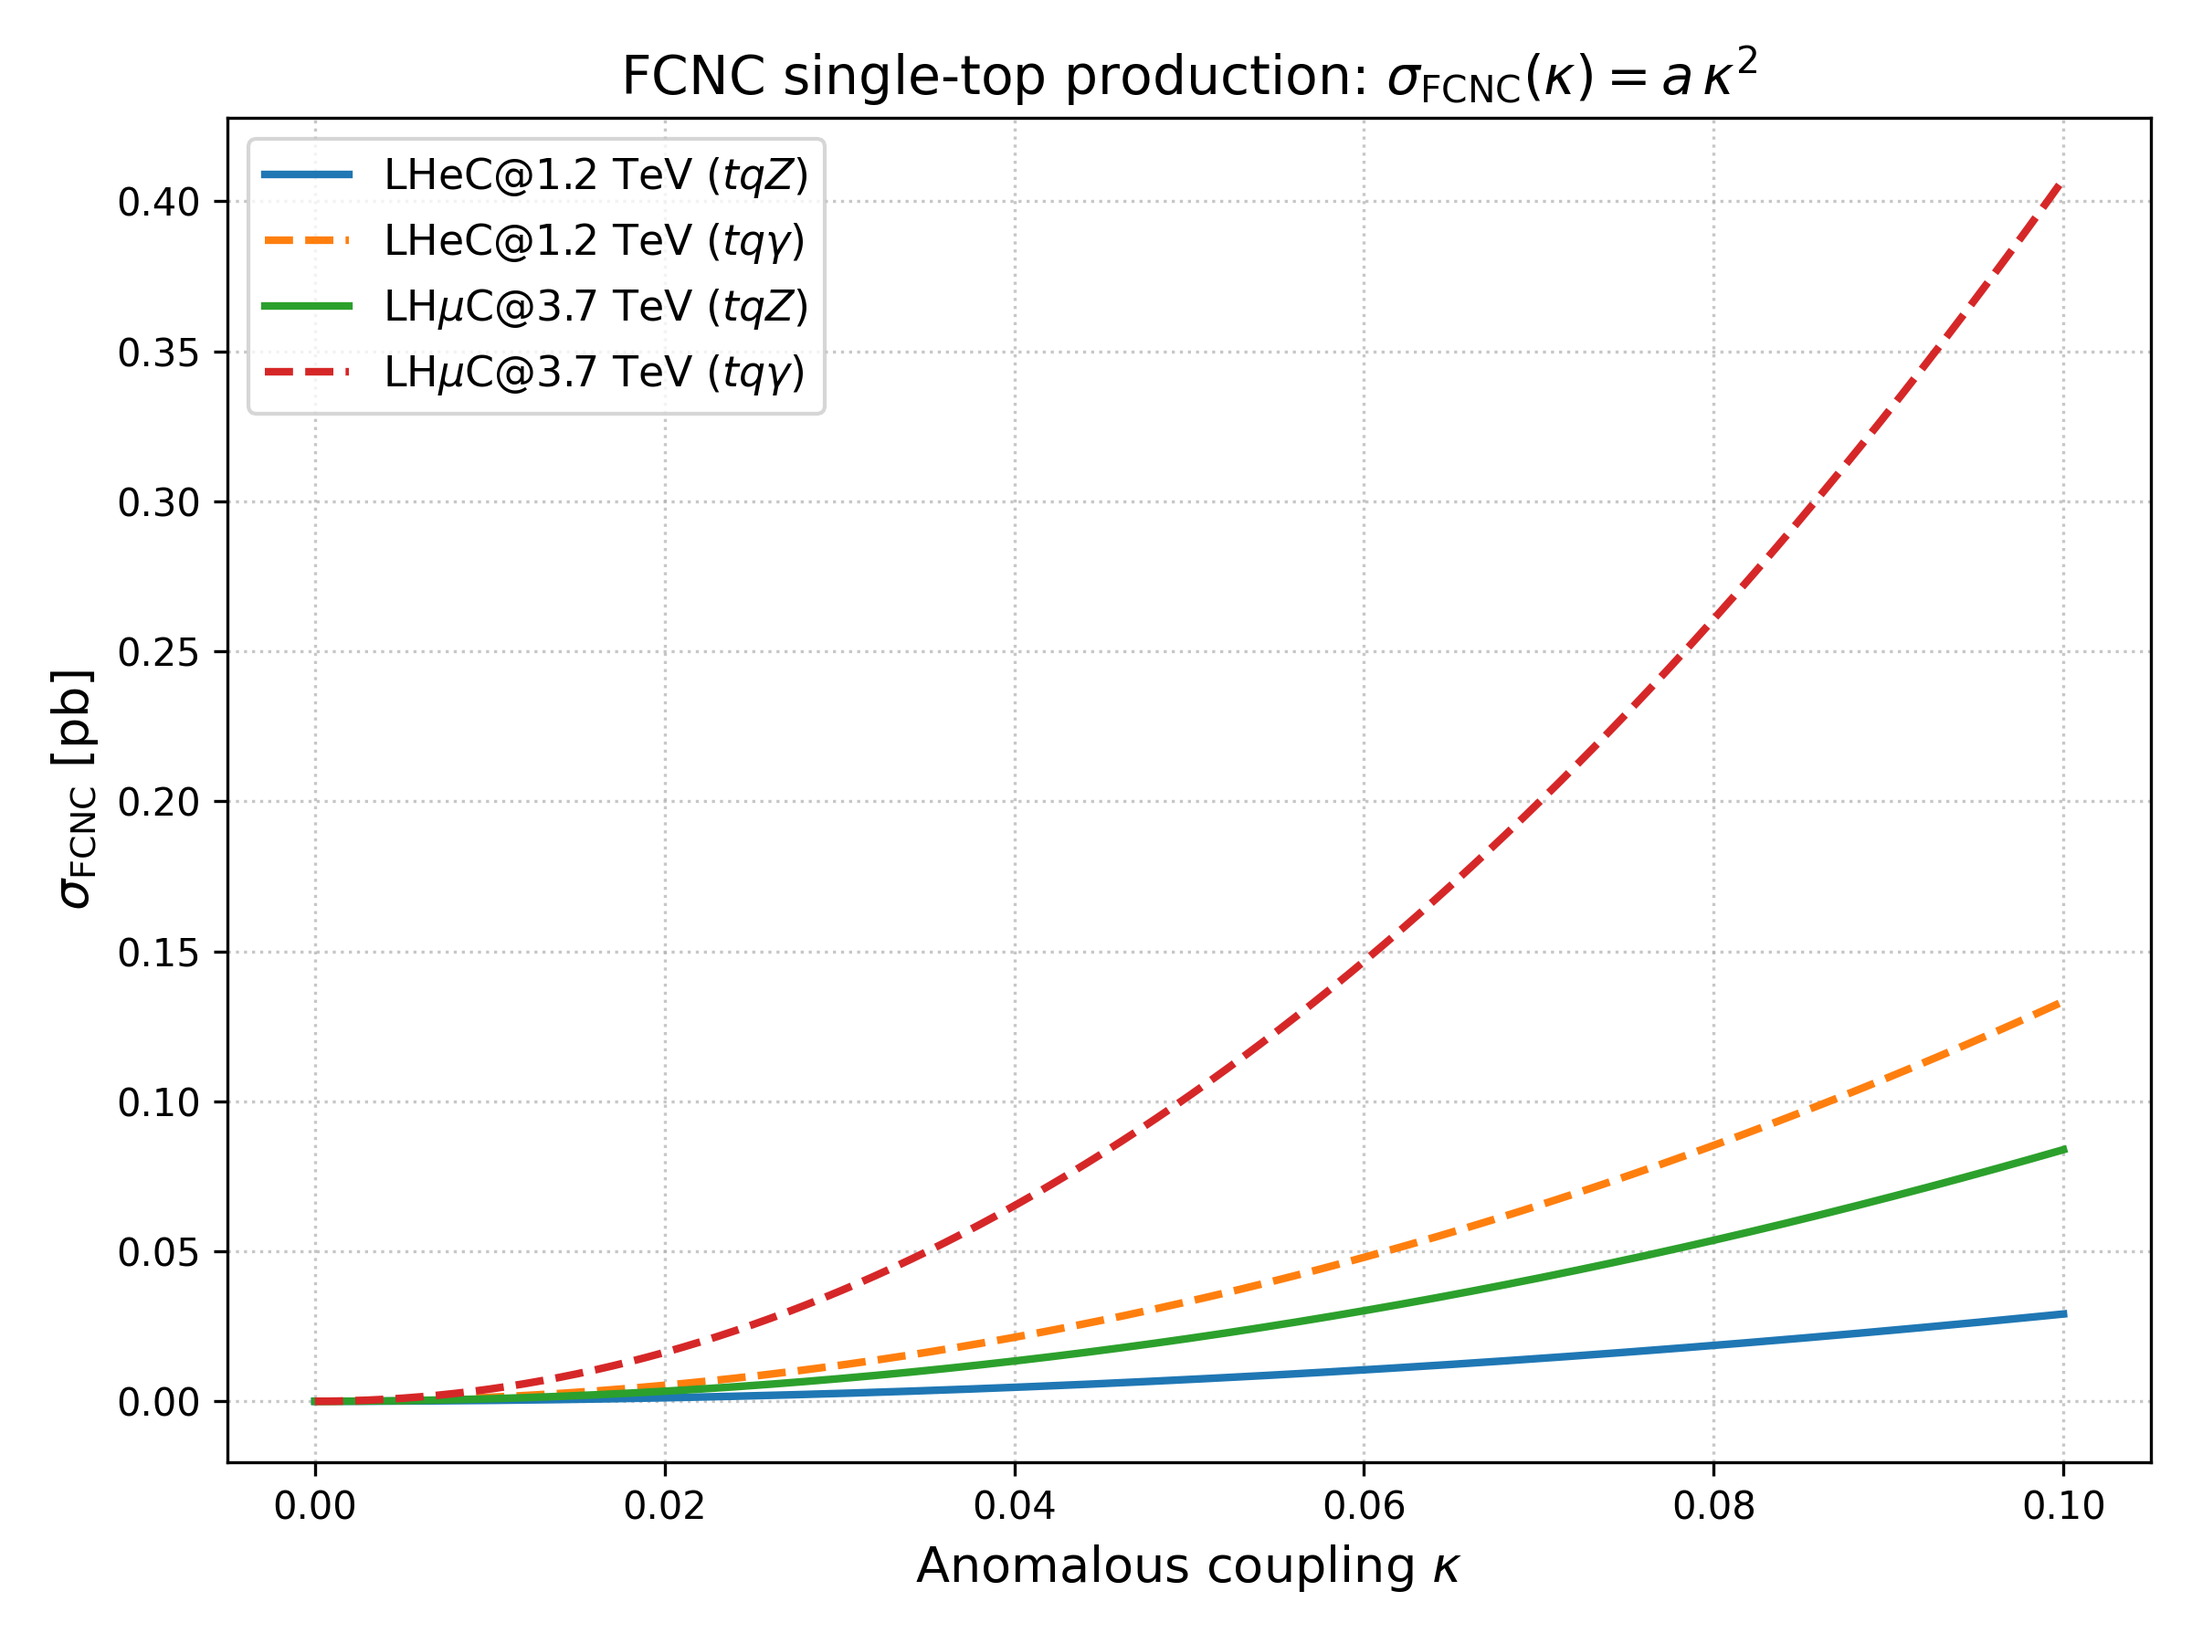
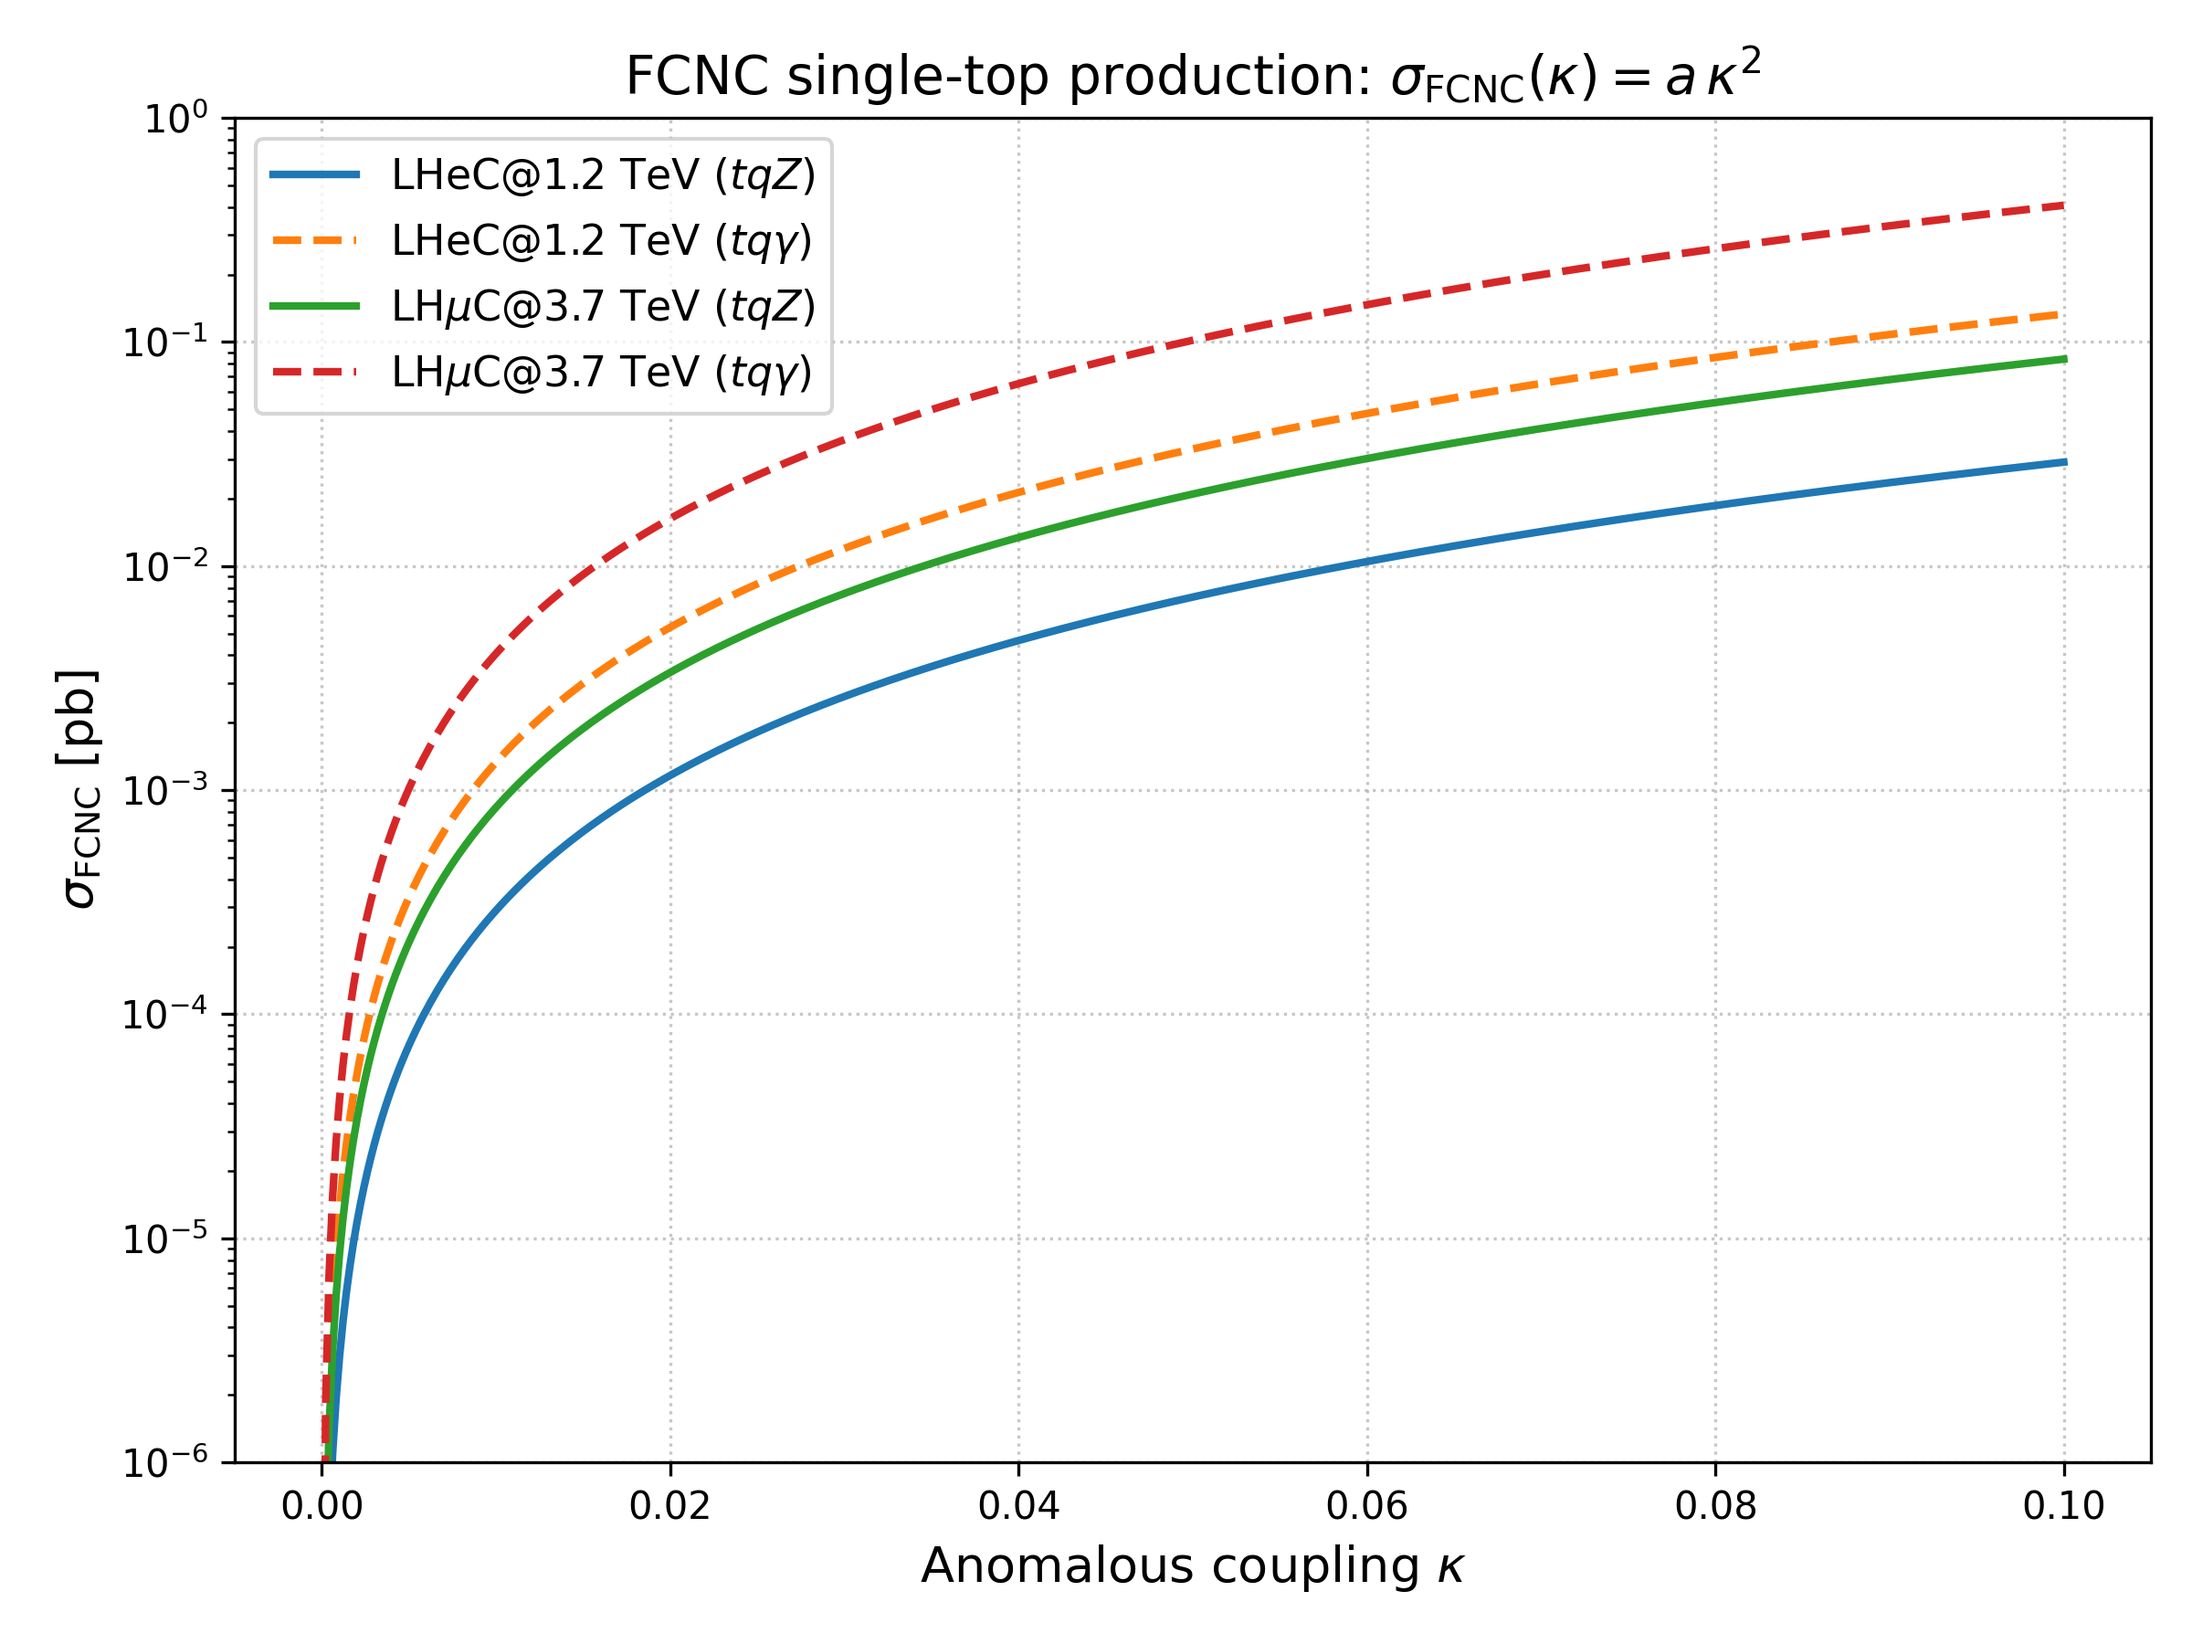
Cross sections: sigma = a * kappa^2
Cross sections: sigma = a * kappa^2

diff --git a/xs vs. couplings/LHeCvsLHmuC.py b/xs vs. couplings/LHeCvsLHmuC.py
@@ -13,9 +13,9 @@ a_LHmuC_tqZ = 8.387
 a_LHmuC_tqgamma = 40.74
 
 # --------------------------------------------------
-# Coupling range
+# Coupling range (linear scale: 10^-5 to 10^-1)
 # --------------------------------------------------
-kappa = np.linspace(0.0, 0.1, 500)
+kappa = np.linspace(1e-5, 1e-1, 500)
 
 # --------------------------------------------------
 # Cross sections: sigma = a * kappa^2
@@ -42,6 +42,9 @@ plt.plot(kappa, sigma_LHmuC_tqZ,
 
 plt.plot(kappa, sigma_LHmuC_tqgamma,
          lw=2, ls='--', label=r'LH$\mu$C@3.7 TeV ($tq\gamma$)')
+
+plt.yscale('log')
+plt.ylim(1e-6, 1e0)
 
 plt.xlabel(r'Anomalous coupling $\kappa$', fontsize=13)
 plt.ylabel(r'$\sigma_{\mathrm{FCNC}}$ [pb]', fontsize=13)
